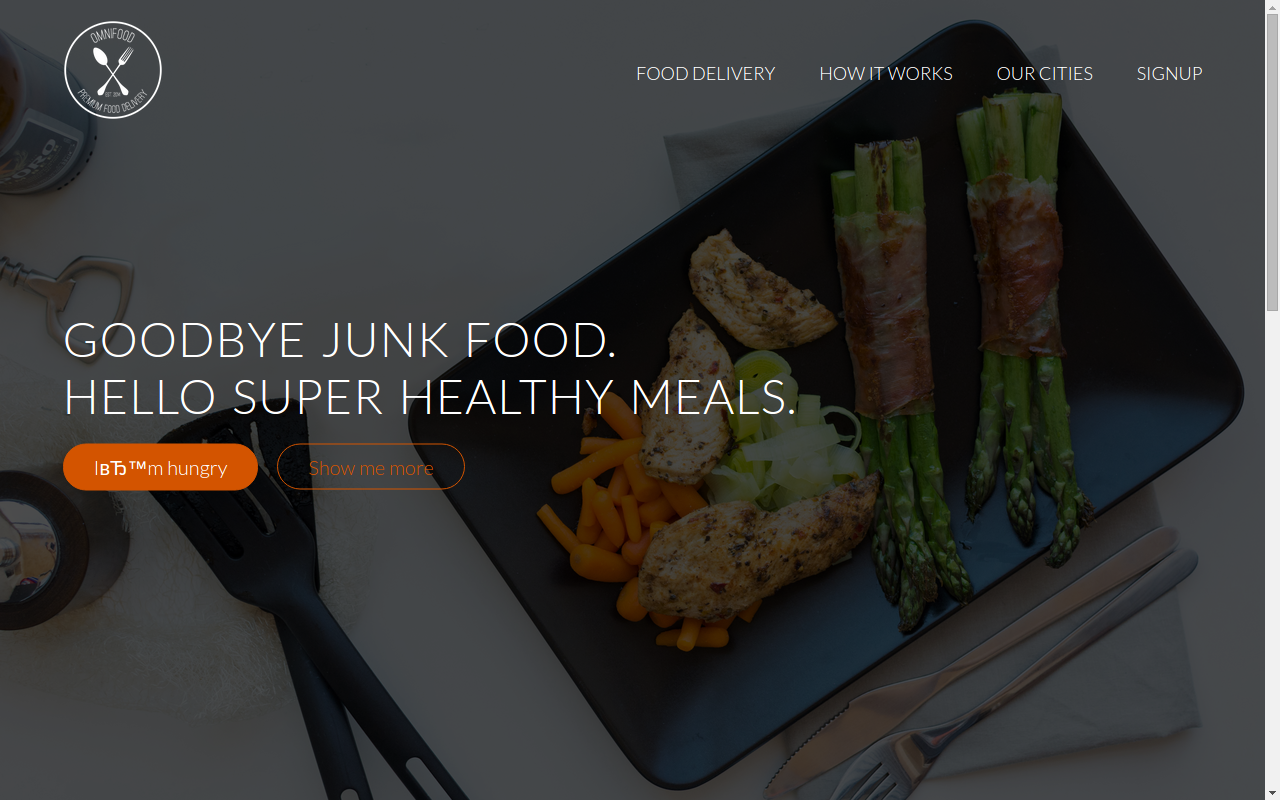
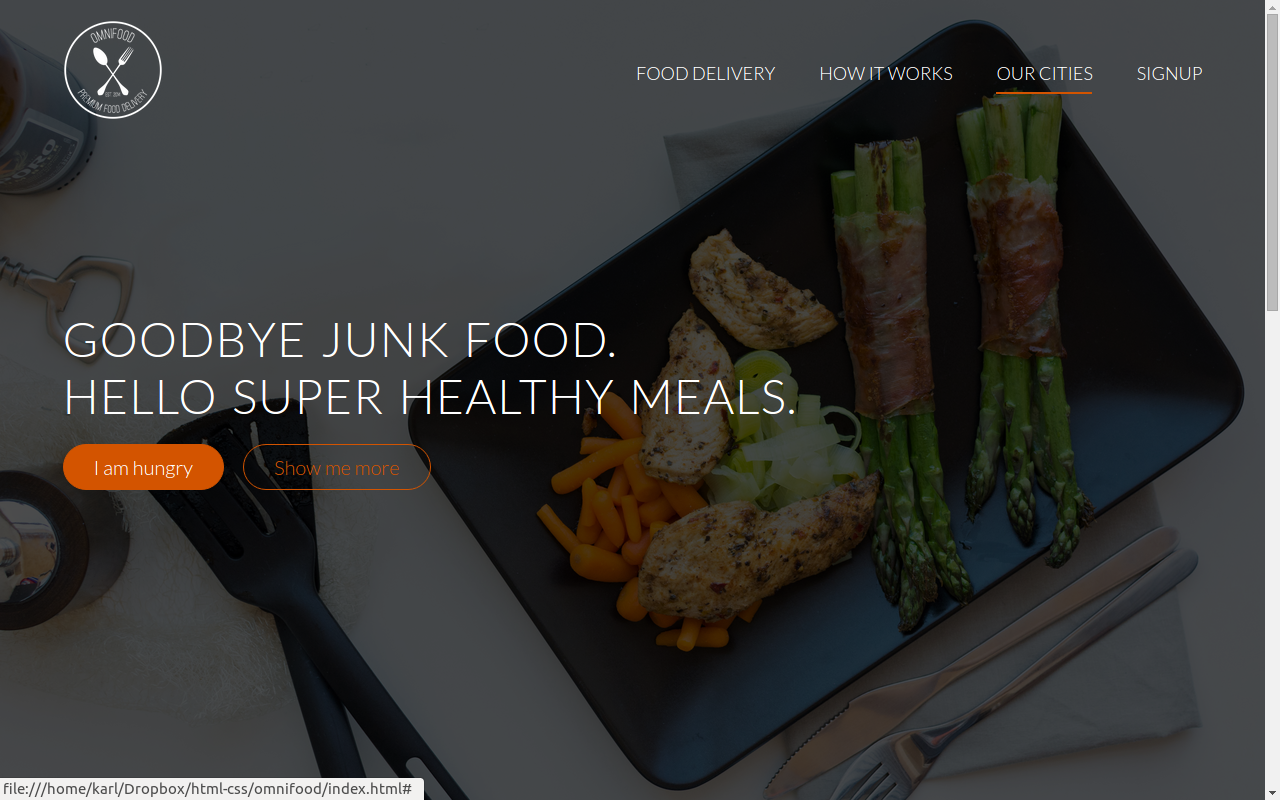
edit text on header button

Changed region(s): [[0.0625, 0.5312, 0.3438, 0.625], [0.0, 0.9688, 0.3438, 1.0]]

diff --git a/index.html b/index.html
@@ -25,7 +25,7 @@
             </nav>
             <div class="hero-text-box">
                 <h1>Goodbye junk food. <br> Hello super healthy meals.</h1>
-                <a class="btn btn-full" href="#">I’m hungry</a>
+                <a class="btn btn-full" href="#">I am hungry</a>
                 <a class="btn btn-ghost" href="#">Show me more</a>
             </div>
         </header>
